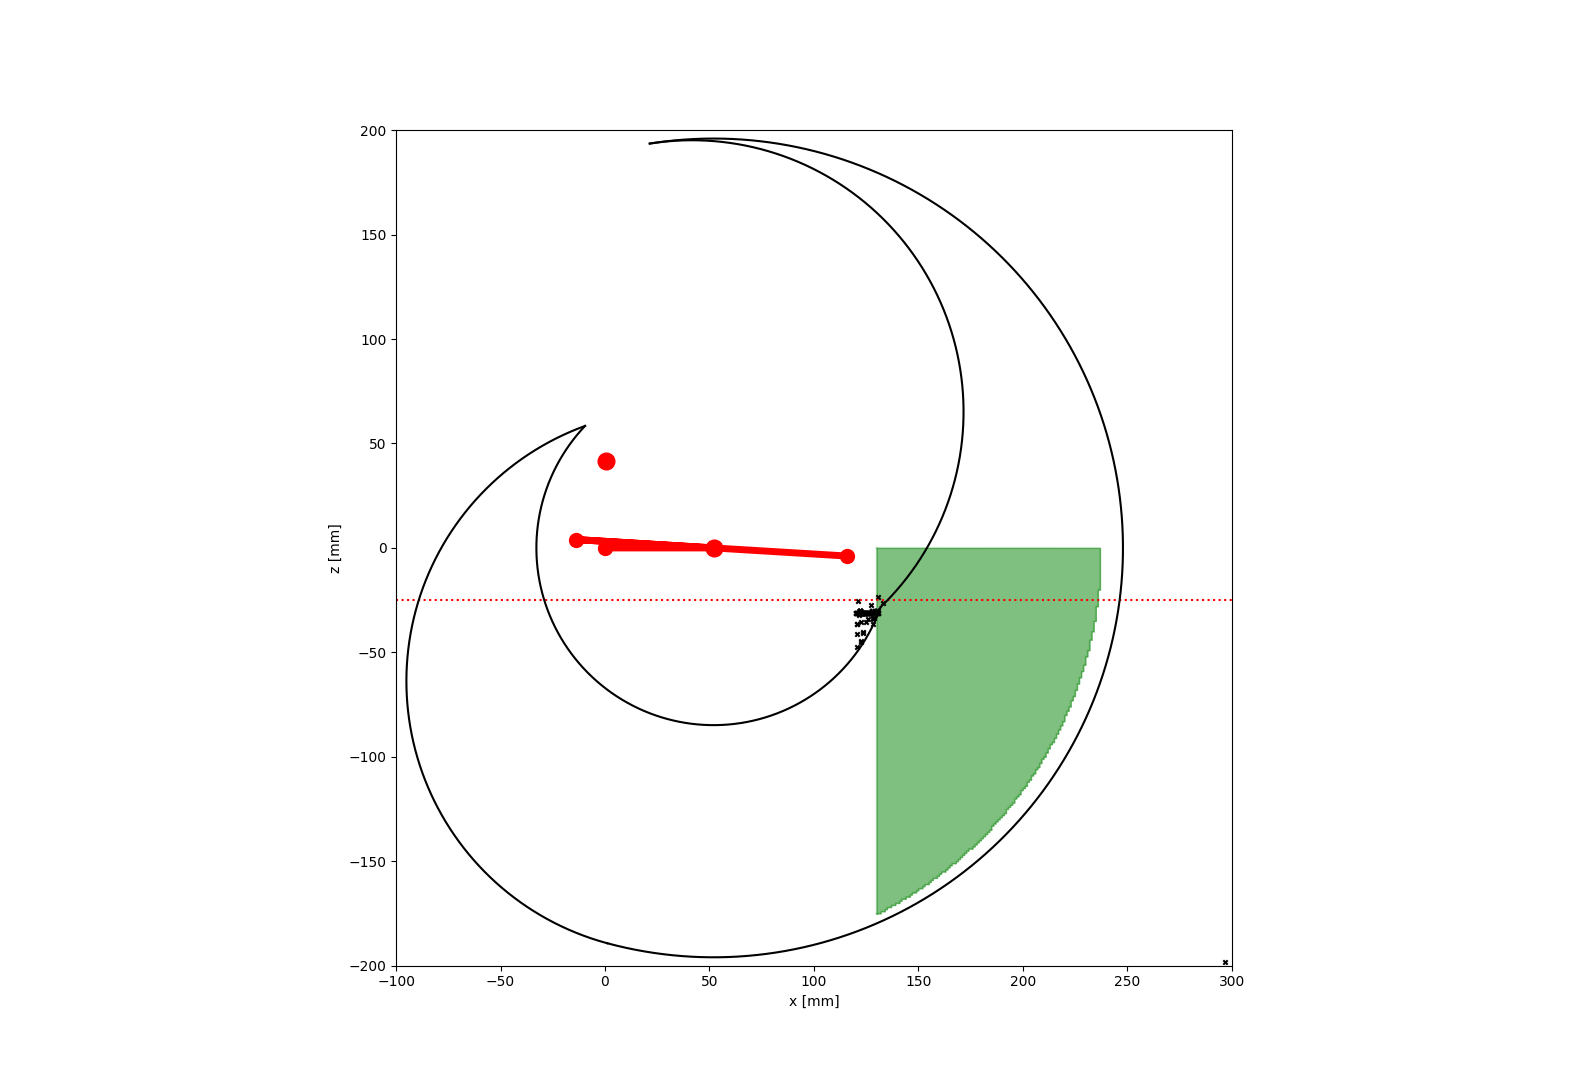
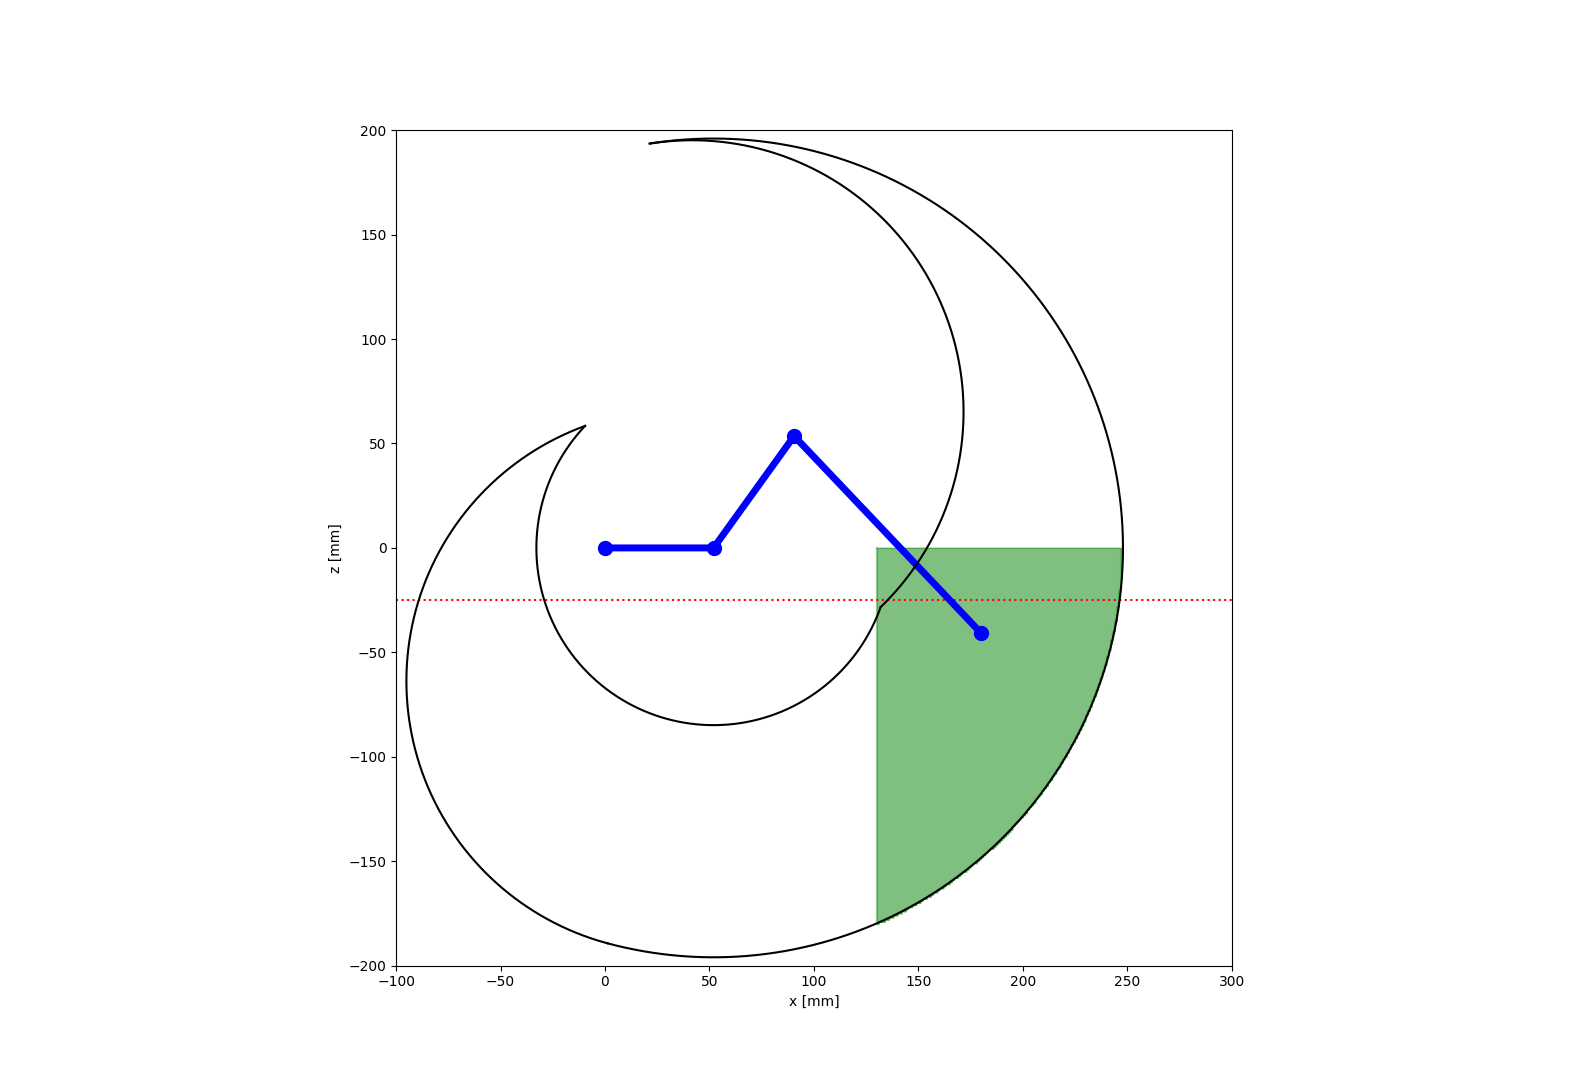
卒論のための図の更新

diff --git a/hexapod_graph_actual.py b/hexapod_graph_actual.py
@@ -39,7 +39,7 @@ if __name__ == "__main__":
     app_graph.set_min_leg_radius(130)
     #app_graph.set_draw_fill(False)
     app_graph.set_alpha(0.5)
-    app_graph.render(ax,-175.1, 0.1)
+    app_graph.render(ax,-180, 0.1)
 
     # 脚を描画
     leg_renderer = dl.HexapodLegRenderer()
@@ -52,29 +52,29 @@ if __name__ == "__main__":
     hexapod_range_of_motion = dl.HexapodRangeOfMotion()
     hexapod_range_of_motion.render_lower_leg_range(ax,'black',1)
 
-    #緊急追加
+    # #緊急追加
 
-    #平面
-    x_falture = [122.027,127.814,123.527,130.581,127.547,123.669,124.248,124.466,128.309,128.042,124.903,127.407,128.201,122.027,130.063,130.876,124.714,125.434,121.711,126.958,122.027,130.063,124.007,121.568,122.004,120.959,122.448,123.572,124.283,122.027,130.063,128.691,130.225,128.594,121.49,124.477,120.228,121.466,123.049,126.626,123.896,124.182,127.023,126.248,120.733,121.162,121.667,]
-    z_falture = [-30,-30,-31.116,-31.116,-31.116,-31.116,-31.116,-31.116,-31.116,-31.116,-31.116,-31.116,-31.116,-30,-30,-31.116,-31.116,-31.116,-31.116,-31.116,-30,-30,-31.116,-31.116,-31.116,-31.116,-31.116,-31.116,-31.116,-30,-30,-31.116,-31.116,-31.116,-31.116,-31.116,-31.116,-31.116,-31.116,-31.116,-31.116,-31.116,-31.116,-31.116,-31.116,-31.116,-31.116,]
+    # #平面
+    # x_falture = [122.027,127.814,123.527,130.581,127.547,123.669,124.248,124.466,128.309,128.042,124.903,127.407,128.201,122.027,130.063,130.876,124.714,125.434,121.711,126.958,122.027,130.063,124.007,121.568,122.004,120.959,122.448,123.572,124.283,122.027,130.063,128.691,130.225,128.594,121.49,124.477,120.228,121.466,123.049,126.626,123.896,124.182,127.023,126.248,120.733,121.162,121.667,]
+    # z_falture = [-30,-30,-31.116,-31.116,-31.116,-31.116,-31.116,-31.116,-31.116,-31.116,-31.116,-31.116,-31.116,-30,-30,-31.116,-31.116,-31.116,-31.116,-31.116,-30,-30,-31.116,-31.116,-31.116,-31.116,-31.116,-31.116,-31.116,-30,-30,-31.116,-31.116,-31.116,-31.116,-31.116,-31.116,-31.116,-31.116,-31.116,-31.116,-31.116,-31.116,-31.116,-31.116,-31.116,-31.116,]
     
-    # 15
-    x_falture += [122.027,127.814,123.527,121.075,124.666,129.875,123.727,128.971,128.089,128.527,121.532,132.889,127.346,296.695,125.612,130.595,122.459,]
-    z_falture += [-30,-30,-31.116,-25.465,-31.231,-31.116,-31.174,-33.376,-33.611,-34.077,-32.116,-26.328,-27.449,-198.043,-31.116,-23.558,-44.334,]
+    # # 15
+    # x_falture += [122.027,127.814,123.527,121.075,124.666,129.875,123.727,128.971,128.089,128.527,121.532,132.889,127.346,296.695,125.612,130.595,122.459,]
+    # z_falture += [-30,-30,-31.116,-25.465,-31.231,-31.116,-31.174,-33.376,-33.611,-34.077,-32.116,-26.328,-27.449,-198.043,-31.116,-23.558,-44.334,]
 
-    # -15
-    x_falture += [122.027,127.814,123.527,128.463,127.726,120.798,125.801,122.027,130.063,122.027,130.063,128.414,123.373,122.027,130.063,120.543,122.473,126.049,120.03,122.415,123.406,125.144,122.775,120.711,]
-    z_falture += [-30,-30,-31.116,-31.116,-31.116,-36.475,-33.936,-30,-30,-30,-30,-36.475,-40.918,-30,-30,-36.475,-31.116,-31.116,-31.116,-31.116,-40.4,-35.4,-35.4,-41.086,]
+    # # -15
+    # x_falture += [122.027,127.814,123.527,128.463,127.726,120.798,125.801,122.027,130.063,122.027,130.063,128.414,123.373,122.027,130.063,120.543,122.473,126.049,120.03,122.415,123.406,125.144,122.775,120.711,]
+    # z_falture += [-30,-30,-31.116,-31.116,-31.116,-36.475,-33.936,-30,-30,-30,-30,-36.475,-40.918,-30,-30,-36.475,-31.116,-31.116,-31.116,-31.116,-40.4,-35.4,-35.4,-41.086,]
  
-    # 100
-    x_falture += [122.027,127.814,125.139,122.758,122.405,126.312,122.027,122.749,122.05,121.99,123.857,123.305,124.489,122.613,122.333,124.624,122.027,130.063,126.869,128.527,130.573,120.385,126.321,120.617,126.789,123.894,125.821,129.697,126.653,126.72,]
-    z_falture += [-30,-30,-31.116,-44.959,-31.116,-31.116,-30,-31.116,-31.116,-31.116,-31.116,-31.116,-31.116,-31.116,-31.116,-31.116,-30,-30,-31.116,-31.116,-31.116,-31.116,-31.116,-31.116,-31.116,-31.116,-31.116,-31.116,-31.116,-31.116,]
+    # # 100
+    # x_falture += [122.027,127.814,125.139,122.758,122.405,126.312,122.027,122.749,122.05,121.99,123.857,123.305,124.489,122.613,122.333,124.624,122.027,130.063,126.869,128.527,130.573,120.385,126.321,120.617,126.789,123.894,125.821,129.697,126.653,126.72,]
+    # z_falture += [-30,-30,-31.116,-44.959,-31.116,-31.116,-30,-31.116,-31.116,-31.116,-31.116,-31.116,-31.116,-31.116,-31.116,-31.116,-30,-30,-31.116,-31.116,-31.116,-31.116,-31.116,-31.116,-31.116,-31.116,-31.116,-31.116,-31.116,-31.116,]
     
-    # -100
-    x_falture += [122.027,127.814,123.527,126.212,124.682,122.027,130.063,130.931,122.805,129.45,124.283,129.902,121.342,120.653,121.851,122.027,130.063,124.684,120.129,122.16,128.052,122.027,130.063,129.64,127.651,128.828,123.23,120.438,127.104,122.027,130.063,129.869,125.818]
-    z_falture += [-30,-30,-31.116,-31.116,-31.116,-30,-30,-31.116,-31.116,-31.116,-31.116,-31.116,-31.116,-47.362,-31.116,-30,-30,-31.116,-31.116,-31.116,-31.116,-30,-30,-31.116,-31.116,-31.116,-31.116,-31.116,-31.116,-30,-30,-31.116,-31.116]
+    # # -100
+    # x_falture += [122.027,127.814,123.527,126.212,124.682,122.027,130.063,130.931,122.805,129.45,124.283,129.902,121.342,120.653,121.851,122.027,130.063,124.684,120.129,122.16,128.052,122.027,130.063,129.64,127.651,128.828,123.23,120.438,127.104,122.027,130.063,129.869,125.818]
+    # z_falture += [-30,-30,-31.116,-31.116,-31.116,-30,-30,-31.116,-31.116,-31.116,-31.116,-31.116,-31.116,-47.362,-31.116,-30,-30,-31.116,-31.116,-31.116,-31.116,-30,-30,-31.116,-31.116,-31.116,-31.116,-31.116,-31.116,-30,-30,-31.116,-31.116]
 
-    ax.scatter(x_falture,z_falture,marker='x',color='black',s=10)
+    # ax.scatter(x_falture,z_falture,marker='x',color='black',s=10)
 
     ax.set_xlim(X_MIN, X_MAX)   # x 軸の範囲を設定
     ax.set_ylim(Z_MIN, Z_MAX)   # z 軸の範囲を設定

diff --git a/hexapod_graph_simu.py b/hexapod_graph_simu.py
@@ -38,7 +38,7 @@ if __name__ == "__main__":
     app_graph = dl.ApproximatedGraphRenderer()
     #app_graph.set_draw_fill(False)
     app_graph.set_alpha(0.5)
-    app_graph.render(ax,-175.1, 0.1)
+    app_graph.render(ax,-183.1, 0.1)
 
     # 脚を描画
     leg_renderer = dl.HexapodLegRenderer()
@@ -52,29 +52,29 @@ if __name__ == "__main__":
     hexapod_range_of_motion.render_lower_leg_range(ax,'black',1)
 
 
-    #緊急追加
+    # #緊急追加
 
-    #平面
-    x_falture = [122.027,127.814,123.527,130.581,127.547,123.669,124.248,124.466,128.309,128.042,124.903,127.407,128.201,122.027,130.063,130.876,124.714,125.434,121.711,126.958,122.027,130.063,124.007,121.568,122.004,120.959,122.448,123.572,124.283,122.027,130.063,128.691,130.225,128.594,121.49,124.477,120.228,121.466,123.049,126.626,123.896,124.182,127.023,126.248,120.733,121.162,121.667,]
-    z_falture = [-30,-30,-31.116,-31.116,-31.116,-31.116,-31.116,-31.116,-31.116,-31.116,-31.116,-31.116,-31.116,-30,-30,-31.116,-31.116,-31.116,-31.116,-31.116,-30,-30,-31.116,-31.116,-31.116,-31.116,-31.116,-31.116,-31.116,-30,-30,-31.116,-31.116,-31.116,-31.116,-31.116,-31.116,-31.116,-31.116,-31.116,-31.116,-31.116,-31.116,-31.116,-31.116,-31.116,-31.116,]
+    # #平面
+    # x_falture = [122.027,127.814,123.527,130.581,127.547,123.669,124.248,124.466,128.309,128.042,124.903,127.407,128.201,122.027,130.063,130.876,124.714,125.434,121.711,126.958,122.027,130.063,124.007,121.568,122.004,120.959,122.448,123.572,124.283,122.027,130.063,128.691,130.225,128.594,121.49,124.477,120.228,121.466,123.049,126.626,123.896,124.182,127.023,126.248,120.733,121.162,121.667,]
+    # z_falture = [-30,-30,-31.116,-31.116,-31.116,-31.116,-31.116,-31.116,-31.116,-31.116,-31.116,-31.116,-31.116,-30,-30,-31.116,-31.116,-31.116,-31.116,-31.116,-30,-30,-31.116,-31.116,-31.116,-31.116,-31.116,-31.116,-31.116,-30,-30,-31.116,-31.116,-31.116,-31.116,-31.116,-31.116,-31.116,-31.116,-31.116,-31.116,-31.116,-31.116,-31.116,-31.116,-31.116,-31.116,]
     
-    # 15
-    x_falture += [122.027,127.814,123.527,121.075,124.666,129.875,123.727,128.971,128.089,128.527,121.532,132.889,127.346,296.695,125.612,130.595,122.459,]
-    z_falture += [-30,-30,-31.116,-25.465,-31.231,-31.116,-31.174,-33.376,-33.611,-34.077,-32.116,-26.328,-27.449,-198.043,-31.116,-23.558,-44.334,]
+    # # 15
+    # x_falture += [122.027,127.814,123.527,121.075,124.666,129.875,123.727,128.971,128.089,128.527,121.532,132.889,127.346,296.695,125.612,130.595,122.459,]
+    # z_falture += [-30,-30,-31.116,-25.465,-31.231,-31.116,-31.174,-33.376,-33.611,-34.077,-32.116,-26.328,-27.449,-198.043,-31.116,-23.558,-44.334,]
 
-    # -15
-    x_falture += [122.027,127.814,123.527,128.463,127.726,120.798,125.801,122.027,130.063,122.027,130.063,128.414,123.373,122.027,130.063,120.543,122.473,126.049,120.03,122.415,123.406,125.144,122.775,120.711,]
-    z_falture += [-30,-30,-31.116,-31.116,-31.116,-36.475,-33.936,-30,-30,-30,-30,-36.475,-40.918,-30,-30,-36.475,-31.116,-31.116,-31.116,-31.116,-40.4,-35.4,-35.4,-41.086,]
+    # # -15
+    # x_falture += [122.027,127.814,123.527,128.463,127.726,120.798,125.801,122.027,130.063,122.027,130.063,128.414,123.373,122.027,130.063,120.543,122.473,126.049,120.03,122.415,123.406,125.144,122.775,120.711,]
+    # z_falture += [-30,-30,-31.116,-31.116,-31.116,-36.475,-33.936,-30,-30,-30,-30,-36.475,-40.918,-30,-30,-36.475,-31.116,-31.116,-31.116,-31.116,-40.4,-35.4,-35.4,-41.086,]
  
-    # 100
-    x_falture += [122.027,127.814,125.139,122.758,122.405,126.312,122.027,122.749,122.05,121.99,123.857,123.305,124.489,122.613,122.333,124.624,122.027,130.063,126.869,128.527,130.573,120.385,126.321,120.617,126.789,123.894,125.821,129.697,126.653,126.72,]
-    z_falture += [-30,-30,-31.116,-44.959,-31.116,-31.116,-30,-31.116,-31.116,-31.116,-31.116,-31.116,-31.116,-31.116,-31.116,-31.116,-30,-30,-31.116,-31.116,-31.116,-31.116,-31.116,-31.116,-31.116,-31.116,-31.116,-31.116,-31.116,-31.116,]
+    # # 100
+    # x_falture += [122.027,127.814,125.139,122.758,122.405,126.312,122.027,122.749,122.05,121.99,123.857,123.305,124.489,122.613,122.333,124.624,122.027,130.063,126.869,128.527,130.573,120.385,126.321,120.617,126.789,123.894,125.821,129.697,126.653,126.72,]
+    # z_falture += [-30,-30,-31.116,-44.959,-31.116,-31.116,-30,-31.116,-31.116,-31.116,-31.116,-31.116,-31.116,-31.116,-31.116,-31.116,-30,-30,-31.116,-31.116,-31.116,-31.116,-31.116,-31.116,-31.116,-31.116,-31.116,-31.116,-31.116,-31.116,]
     
-    # -100
-    x_falture += [122.027,127.814,123.527,126.212,124.682,122.027,130.063,130.931,122.805,129.45,124.283,129.902,121.342,120.653,121.851,122.027,130.063,124.684,120.129,122.16,128.052,122.027,130.063,129.64,127.651,128.828,123.23,120.438,127.104,122.027,130.063,129.869,125.818]
-    z_falture += [-30,-30,-31.116,-31.116,-31.116,-30,-30,-31.116,-31.116,-31.116,-31.116,-31.116,-31.116,-47.362,-31.116,-30,-30,-31.116,-31.116,-31.116,-31.116,-30,-30,-31.116,-31.116,-31.116,-31.116,-31.116,-31.116,-30,-30,-31.116,-31.116]
+    # # -100
+    # x_falture += [122.027,127.814,123.527,126.212,124.682,122.027,130.063,130.931,122.805,129.45,124.283,129.902,121.342,120.653,121.851,122.027,130.063,124.684,120.129,122.16,128.052,122.027,130.063,129.64,127.651,128.828,123.23,120.438,127.104,122.027,130.063,129.869,125.818]
+    # z_falture += [-30,-30,-31.116,-31.116,-31.116,-30,-30,-31.116,-31.116,-31.116,-31.116,-31.116,-31.116,-47.362,-31.116,-30,-30,-31.116,-31.116,-31.116,-31.116,-30,-30,-31.116,-31.116,-31.116,-31.116,-31.116,-31.116,-30,-30,-31.116,-31.116]
 
-    ax.scatter(x_falture,z_falture,marker='x',color='black',s=10)
+    # ax.scatter(x_falture,z_falture,marker='x',color='black',s=10)
 
     ax.set_xlim(X_MIN, X_MAX)   # x 軸の範囲を設定
     ax.set_ylim(Z_MIN, Z_MAX)   # z 軸の範囲を設定

diff --git a/designlab/hexapod.py b/designlab/hexapod.py
@@ -334,7 +334,7 @@ class HexapodLegRangeCalculator:
                     continue
                 q2 = math.acos(q2_theta)
 
-                r_margin = 10.0
+                r_margin = 0.0
                 self._approximate_max_leg_raudus[z] = (float)(x) - r_margin
 
         return
